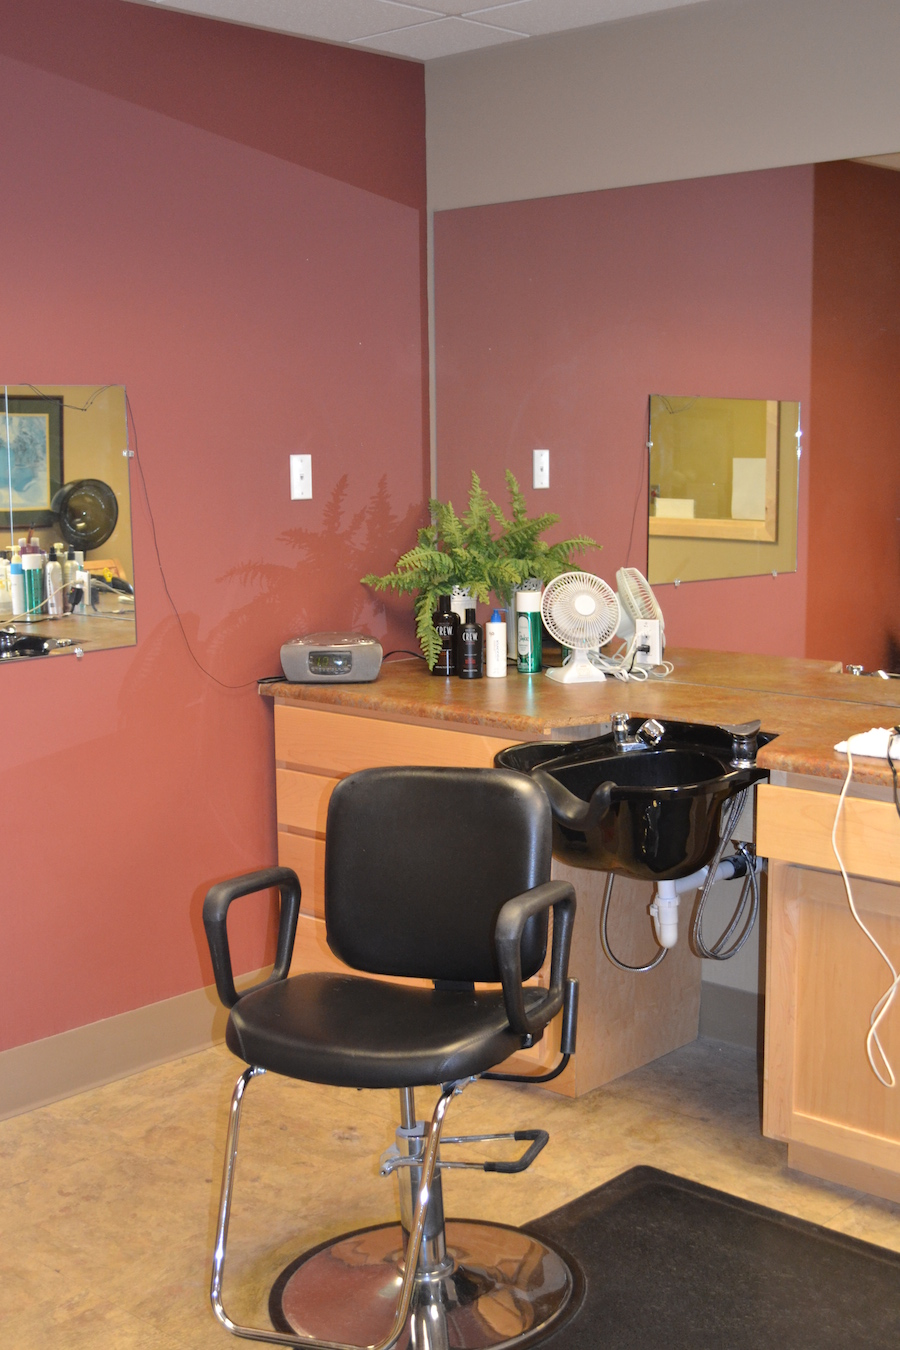
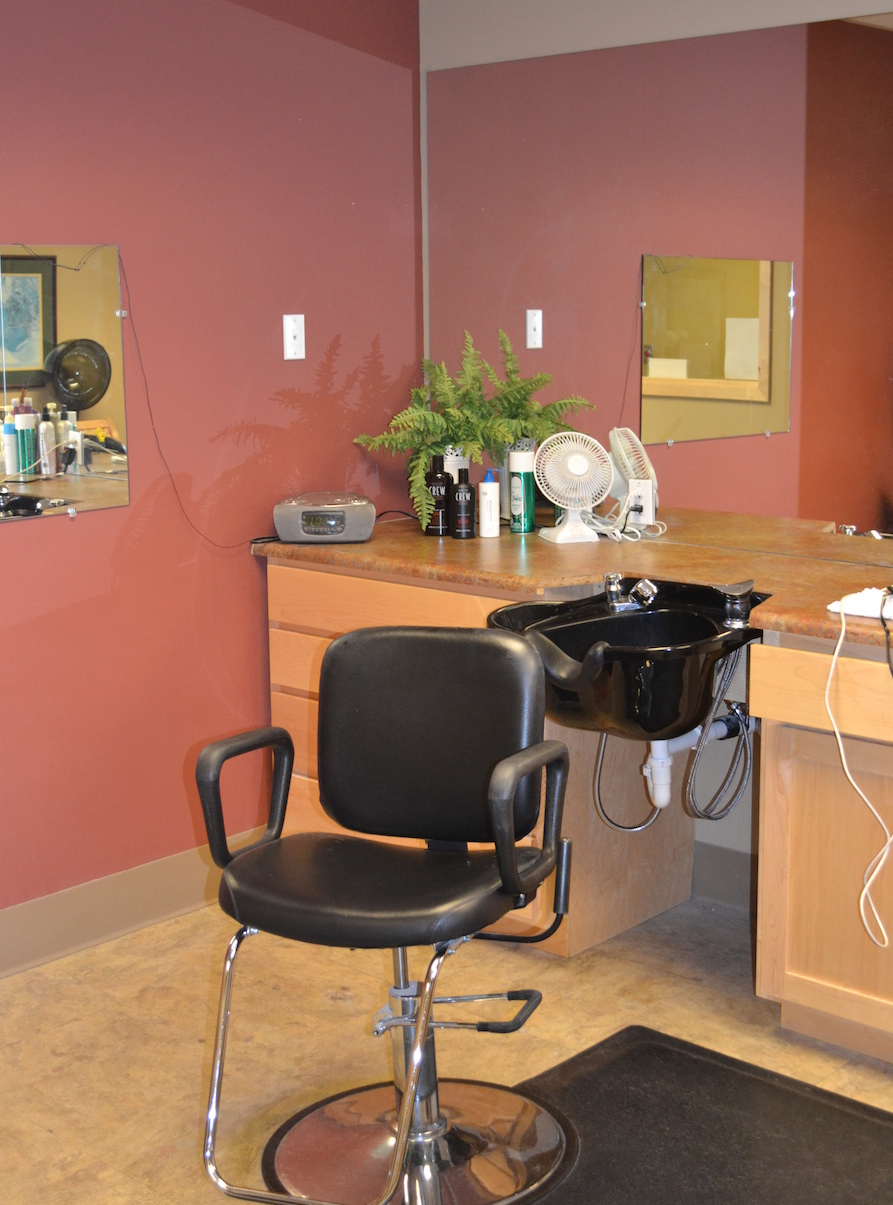
contact

diff --git a/portfolio.html b/portfolio.html
@@ -58,7 +58,7 @@
 
 					<!-- dropdown element1 -->
 					<div class="element retail">
-				        <img class="col-pic" class="btn btn-default btn-lg retail-caption" data-toggle="modal" data-target="#myModal1" src="img/Milagro-Salon/Milagro2.JPG" alt="Milagro Salon">
+				        <img class="col-pic" class="btn btn-default btn-lg retail-caption" data-toggle="modal" data-target="#myModal1" src="img/Milagro-Salon/Milagro1.JPG" alt="Milagro Salon">
 				        <p>Milagro Salon</p>
 
 				        <!-- Modal -->
@@ -99,6 +99,10 @@
 
 								                <div class="item">
 								                    <img src="img/Milagro-Salon/Milagro5.JPG" alt="Milagro Salon">
+								                </div>
+
+								                <div class="item">
+								                    <img src="img/Milagro-Salon/Milagro6.JPG" alt="Milagro Salon">
 								                </div>
 							                </div>
 
@@ -261,10 +265,6 @@
 
 								                <div class="item">
 								                    <img src="img/Dish-It-Up/Dish10.JPG" alt="Dish It Up">
-								                </div>
-
-								                <div class="item">
-								                    <img src="img/Dish-It-Up/Dish11.JPG" alt="Dish It Up">
 								                </div>
 							                </div>
 
@@ -432,6 +432,10 @@
 
 								                <div class="item">
 								                    <img src="img/First-Lenora/First-Lenora5.JPG" alt="First and Lenora Entry">
+								                </div>
+
+								                <div class="item">
+								                    <img src="img/First-Lenora/First-Lenora6.JPG" alt="First and Lenora Entry">
 								                </div>
 							                </div>
 

diff --git a/contact.html b/contact.html
@@ -37,19 +37,20 @@
 		</header>
 
 		<div id="bio-container">
-			<div class = "row-contact">
-				<div class="col-md-6">
+			<div class = "row">
+				<div class="col-md-6 contact-form">
 					<h2 class= "contact-info-header">Contact Us</h2> 
-					<p class="contact-info">
-						Ryan Cleveland Services, LLC <br>
-						1915 E. Marion St. <br>
-						Seattle, WA 98122 <br>
-						P: 206-683-4323 <br>
-						E: <a href="mailto: ryan@ryanclevelandservices.com">ryan@ryanclevelandservices.com</a> <br>
-					</p>
+					<div class="contact-info">
+
+						<p>Ryan Cleveland Services, LLC</p>
+						<p><span class="glyphicon glyphicon-home">          </span>    1915 E. Marion St. <br>
+						    Seattle, WA 98122</p>
+						<p><span class="glyphicon glyphicon-earphone">  </span> 206-683-4323</p>
+						<p><span class="glyphicon glyphicon-envelope">  </span> <a href="mailto: ryan@ryanclevelandservices.com">ryan@ryanclevelandservices.com</a></p>
+					</div>
 				</div>
 			
-				<div class="col-md-5">
+				<div class="col-md-6 contact-form">
 
 					<div class="text-form">
 						<form method="post" name="myemailform" action="form-to-email.php">
@@ -70,13 +71,11 @@
 								<p class="input-head">Your Message:</p><textarea name="message" rows="10" cols="58" class="form-control form-message" required></textarea>
 							</div>
 
-							<input type="submit" value="Send" class="btn btn-primary">
+							<input type="submit" value="Send" class="btn btn-primary send">
 						</form>
 					</div>
 				</div>
       		</div>
-			
-
 		</div>
 
 		<script src="https://ajax.googleapis.com/ajax/libs/jquery/1.10.2/jquery.min.js"></script>

diff --git a/css/styles.css b/css/styles.css
@@ -113,9 +113,8 @@ margin-top: -50px;
 .text-form {
     color: #FFF;
     background-color: rgba(0,0,0,.3);
-    padding-left: 15px;
-    padding-top: 15px;
-    padding-right: 15px;
+    padding: 15px;
+    border-radius: 3px;
 }
 
 .main-img {
@@ -127,8 +126,8 @@ margin-top: -50px;
 }
 
 .contact-img{
-height: 600px;
-width: 600px;
+    height: 600px;
+    width: 600px;
 }
 
 .forum{
@@ -146,11 +145,10 @@ width: 600px;
 
 }
 
-.contact-info{
+.contact-info {
     font-family: Jura, sans-serif;
-    color: #052F6D;
+    /*color: #052F6D;*/
     font-size: 22px;
-
 }
 
 .contact-container{
@@ -178,9 +176,17 @@ width: 600px;
     border-color: black;
 }
 
-.col-md-5{
-    margin-left: 1em;
+.contact-form {
+    padding: 0; 
 }
+
+.glyphicon {
+    margin-right: 10px;
+}
+
+/*.send {
+    margin-bottom: 10px;
+}*/
 
 
 /*portfolio*/
@@ -324,3 +330,13 @@ nav a:hover{
     padding: 40px 20px 40px 20px;
     width: 980px;
 }
+
+
+header {
+    padding-bottom: 20px;
+}
+
+
+
+
+

diff --git a/css/portfolioStyles.css b/css/portfolioStyles.css
@@ -50,6 +50,7 @@ figcaption a, figcaption a:hover, figcaption a:link, figcaption a:visited {
 
 .portfolio {
     text-align: center;
+    margin-top: 0px; 
 }
 
 .col-pic {
